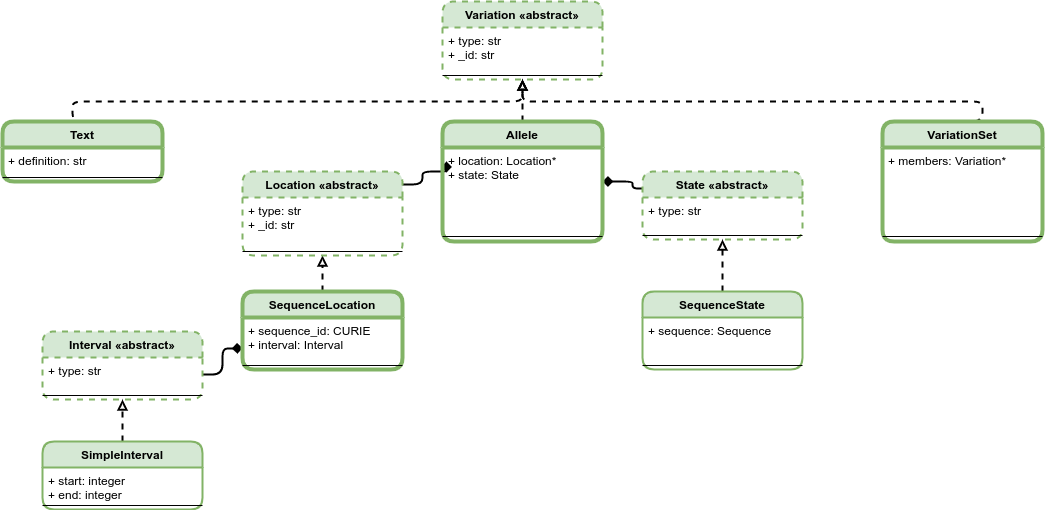
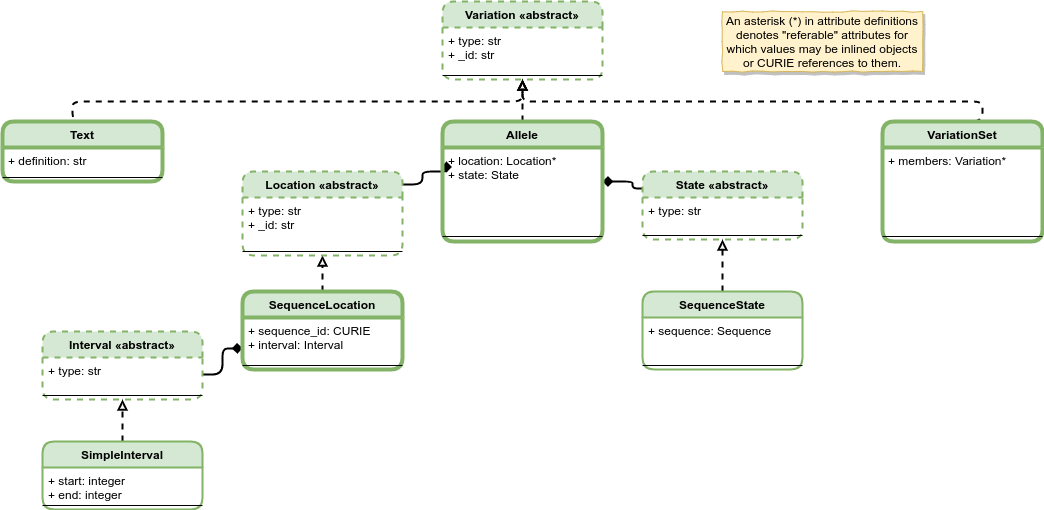
Addressed feedback from @helensch

diff --git a/docs/source/schema.rst b/docs/source/schema.rst
@@ -9,22 +9,25 @@ Overview
 
 .. figure:: images/schema-current.png
 
-   **VR Schema Diagram**
+   Variation Representation Specfication (VRS) Schema Diagram
 
-   The VR Schema describes multiple composite objects, which
-   are grouped under four abstract classes: :ref:`Variation`,
-   :ref:`Location`, :ref:`State`, and :ref:`Interval`. These classes
-   and their relationships to the representation of Variation are
-   illustrated here. All classes have a string `type`. Dashed borders
-   denote abstract classes. Abstract classes are not
-   instantiated. Thin solid borders denote classes that may be
-   instantiated but are not identifiable. Bold borders denote
-   identifiable objects (i.e., may be serialized and identified by
-   computed identifier). Solid arrow lines denoted
-   inheritance. Subclasses inherit all attributes from their
-   parent. Inherited attributes are not shown.  These abstract classes
-   and their concrete child classes are described in the following
-   documents.
+   VRS describes several classes for representing biological sequence
+   variation.  Classes are shown as boxes. Inheritance and composition
+   are shown with lines connecting classes.  Dashed borders denote
+   abstract classes, which are not instantiated.  Four abstract
+   classes -- :ref:`Variation`, :ref:`Location`, :ref:`State`, and
+   :ref:`Interval` -- enable specializations of concepts in this and
+   future versions of VRS.  Bold borders denote identifiable classes
+   -- that may be referenced with an identifier.  Identifiable objects
+   have an optional `_id` attribute.  Thin solid borders denote
+   classes that not identifiable; these classes exist only to
+   structure data within identifiable classes.  All classes have a
+   string `type`.  Dashed arrow lines denote inheritance; subclasses
+   inherit all attributes from their parent.  Inherited attributes are
+   not shown in this diagram.  Solid lines with diamonds denote
+   composition of one class with objects from another. An asterisk on
+   a class attribute definition denotes an attribute that may contain
+   either the object or a CURIE identifier to that object.
 
 
 Machine Readable Specifications
@@ -37,3 +40,4 @@ The schema itself is written in YAML (|vr_yaml|) and converted to JSON
 (|vr_json|).
 
 Contributions to the schema MUST be written in the YAML document.
+ 

diff --git a/docs/source/terms_and_model.rst b/docs/source/terms_and_model.rst
@@ -705,8 +705,8 @@ subclasses, but are still treated as variation.
 .. _genetic variation: https://en.wikipedia.org/wiki/Genetic_variation
 
 
-Variation Set
-#############
+VariationSet
+############
 
 **Biological definition**
 
@@ -749,7 +749,7 @@ An unconstrained set of Variation objects or references.
 * The VariationSet identifier MAY be computed as described in
   :ref:`computed-identifiers`, in which case the identifier
   effectively refers to a static set because a different set of
-  members would geneate a different identifier.
+  members would generate a different identifier.
 * `members` may be specified as Variation objects or CURIE
   identifiers.
 * CURIEs MAY refer to entities outside the `ga4gh` namespace.

diff --git a/docs/source/appendices/future_plans.rst b/docs/source/appendices/future_plans.rst
@@ -313,13 +313,3 @@ RuleState is a subclass of :ref:`state` intended to capture states defined
 by categorical rules instead of sequence states. This includes *gain- /
 loss-of-function*, *oncogenic*, and *truncating* variation.
 
-Variation Sets
-@@@@@@@@@@@@@@
-
-.. note:: The VR-Spec anticipates the need for sets of variation.
-          Sets MAY be static (immutable) or dynamic (changeable), and
-          might be defined manually, by an `equivalence function`, or
-          by an expansion functions.  Furthermore, equivalence and
-          expansion functions might be user-defined.  This concept is
-          being refined. Please comment at
-          https://github.com/ga4gh/vr-spec/issues/15
